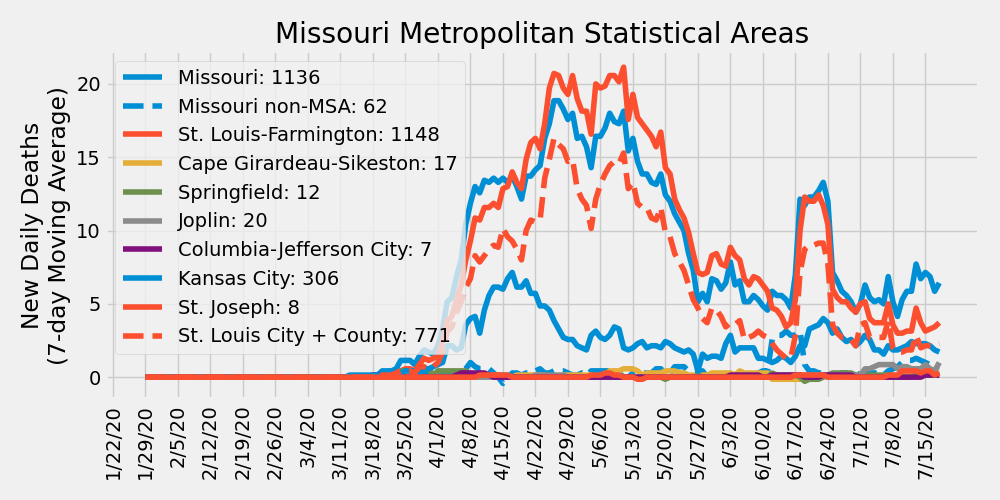
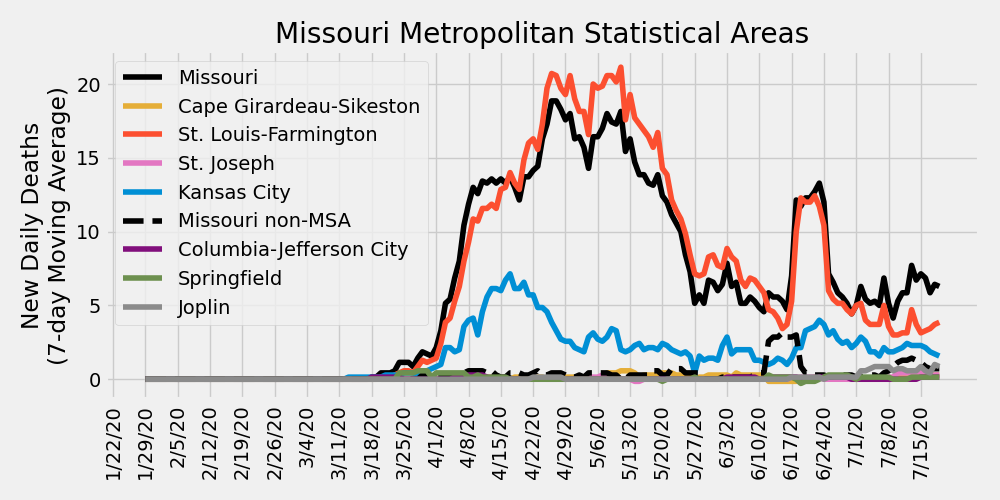
update 7/20/2020

diff --git a/ajvogt-analysis/mo_analysis_script.py b/ajvogt-analysis/mo_analysis_script.py
@@ -141,5 +141,5 @@ if __name__ == "__main__":
                        save_loc='images/mo_daily_deaths.png',
                        title='New Daily Deaths')
 
-    print('=== Updating Markdown ===')
+    print('\n=== Updating Markdown ===')
     mu.write_markdown('missouri_analysis.md', ra)

diff --git a/ajvogt-analysis/missouri_analysis.md b/ajvogt-analysis/missouri_analysis.md
@@ -1,6 +1,6 @@
 # COVID-19 Missouri Statistics & Regional Breakdowns
 Author: Adam J. Vogt  
-Updated: 07/19/2020  
+Updated: 07/20/2020  
 Source: [COVID-19 Data Repository by the Center for Systems Science and Engineering (CSSE) at Johns Hopkins University](https://github.com/CSSEGISandData/COVID-19)  
 Source Code: `/ajvogt-analysis/mo_analysis_script.py`  
 Release Notes: [release_notes.md](https://github.com/ajvogt/COVID-19/blob/master/ajvogt-analysis/release_notes.md)
@@ -17,145 +17,143 @@ are a custom combination of MSAs and
 
 ## Missouri New Daily Deaths by Metropolitan Statistcal Areas
 ![](images/mo_daily_deaths.png)
-Legend shows cumulative deaths
 
 ## Missouri New Daily Confirmed Cases by Metropolitan Statistcal Areas
 ![](images/mo_daily_cases.png)
-Legend shows cumulative confirmed cases
 
 <a name="msa-counties"></a>
 ## Metropolitan Statistical Area (MSA) Counties
 | MSA | State | County | Total Cases | Total Deaths | Daily New Cases: Last 7-Day Average | Daily New Cases: Last 14-Day Average | Daily New Cases: Last 30-Day Average |
 |-----|-------|--------|---|---|---|---|---|
-| St. Louis-Farmington | Missouri | St. Louis | 607 | 8739 | 164 | 141 | 102 |
-| Kansas City | Kansas | Johnson | 95 | 3564 | 120 | 112 | 81 |
-| Kansas City | Kansas | Wyandotte | 88 | 3433 | 80 | 67 | 56 |
-| Kansas City | Missouri | Kansas City | 37 | 3454 | 59 | 60 | 55 |
-| St. Louis-Farmington | Missouri | St. Louis City | 161 | 3256 | 53 | 49 | 33 |
-| St. Louis-Farmington | Illinois | St. Clair | 148 | 2564 | 51 | 42 | 34 |
-| St. Louis-Farmington | Missouri | St. Charles | 79 | 1581 | 45 | 34 | 21 |
-| St. Louis-Farmington | Illinois | Madison | 71 | 1413 | 40 | 30 | 22 |
-| Joplin | Missouri | Jasper | 13 | 1177 | 29 | 36 | 33 |
-| Kansas City | Missouri | Jackson | 46 | 1750 | 29 | 32 | 27 |
-| Columbia-Jefferson City | Missouri | Boone | 2 | 701 | 23 | 21 | 15 |
-| Springfield | Missouri | Greene | 9 | 575 | 21 | 19 | 12 |
-| St. Louis-Farmington | Missouri | Jefferson | 22 | 670 | 16 | 12 | 9 |
-| Missouri non-MSA | Missouri | Johnson | 1 | 322 | 14 | 12 | 7 |
-| Missouri non-MSA | Missouri | McDonald | 1 | 782 | 13 | 13 | 22 |
-| Cape Girardeau-Sikeston | Missouri | Cape Girardeau | 3 | 407 | 13 | 15 | 9 |
-| Joplin | Missouri | Newton | 2 | 638 | 12 | 13 | 18 |
-| St. Louis-Farmington | Missouri | Franklin | 18 | 337 | 10 | 8 | 5 |
-| Kansas City | Missouri | Clay | 13 | 607 | 8 | 9 | 10 |
-| Missouri non-MSA | Missouri | Barry | 0 | 147 | 8 | 5 | 4 |
-| Missouri non-MSA | Missouri | New Madrid | 1 | 96 | 6 | 3 | 2 |
-| Missouri non-MSA | Missouri | Pettis | 2 | 187 | 6 | 4 | 3 |
-| Missouri non-MSA | Missouri | Laclede | 1 | 128 | 6 | 6 | 3 |
-| Columbia-Jefferson City | Missouri | Cole | 2 | 143 | 6 | 4 | 2 |
-| Cape Girardeau-Sikeston | Missouri | Scott | 13 | 240 | 6 | 4 | 3 |
-| Kansas City | Missouri | Cass | 8 | 237 | 6 | 6 | 4 |
-| Kansas City | Missouri | Platte | 6 | 192 | 5 | 4 | 3 |
+| St. Louis-Farmington | Missouri | St. Louis | 610 | 8990 | 168 | 150 | 107 |
+| Kansas City | Kansas | Johnson | 96 | 3744 | 111 | 109 | 84 |
+| Kansas City | Kansas | Wyandotte | 89 | 3655 | 86 | 77 | 60 |
+| Kansas City | Missouri | Kansas City | 38 | 3715 | 86 | 72 | 61 |
+| St. Louis-Farmington | Missouri | St. Louis City | 161 | 3403 | 65 | 58 | 36 |
+| St. Louis-Farmington | Illinois | St. Clair | 150 | 2722 | 59 | 50 | 38 |
+| St. Louis-Farmington | Missouri | St. Charles | 79 | 1746 | 57 | 44 | 26 |
+| Kansas City | Missouri | Jackson | 47 | 1912 | 46 | 41 | 31 |
+| St. Louis-Farmington | Illinois | Madison | 71 | 1478 | 40 | 31 | 23 |
+| Joplin | Missouri | Jasper | 17 | 1239 | 33 | 34 | 34 |
+| Springfield | Missouri | Greene | 9 | 625 | 27 | 21 | 13 |
+| Columbia-Jefferson City | Missouri | Boone | 2 | 742 | 24 | 23 | 16 |
+| St. Louis-Farmington | Missouri | Jefferson | 22 | 711 | 18 | 14 | 10 |
+| Missouri non-MSA | Missouri | McDonald | 1 | 817 | 15 | 14 | 22 |
+| Missouri non-MSA | Missouri | Johnson | 1 | 354 | 15 | 13 | 8 |
+| Cape Girardeau-Sikeston | Missouri | Cape Girardeau | 3 | 429 | 14 | 15 | 10 |
+| Joplin | Missouri | Newton | 2 | 651 | 14 | 13 | 17 |
+| St. Louis-Farmington | Missouri | Franklin | 18 | 354 | 10 | 9 | 5 |
+| Kansas City | Missouri | Clay | 13 | 625 | 9 | 8 | 9 |
+| Springfield | Missouri | Polk | 0 | 85 | 9 | 5 | 2 |
+| Kansas City | Missouri | Cass | 8 | 268 | 9 | 7 | 5 |
+| Missouri non-MSA | Missouri | Barry | 0 | 156 | 8 | 6 | 4 |
+| Columbia-Jefferson City | Missouri | Cole | 2 | 159 | 8 | 5 | 3 |
+| Kansas City | Missouri | Platte | 6 | 207 | 7 | 5 | 3 |
+| Missouri non-MSA | Missouri | Laclede | 1 | 138 | 7 | 7 | 4 |
+| Missouri non-MSA | Missouri | Taney | 3 | 174 | 7 | 6 | 4 |
+| Missouri non-MSA | Missouri | New Madrid | 1 | 101 | 7 | 4 | 2 |
+| Missouri non-MSA | Missouri | Pettis | 2 | 197 | 7 | 4 | 3 |
+| Missouri non-MSA | Missouri | Pemiscot | 6 | 160 | 6 | 3 | 1 |
+| Springfield | Missouri | Christian | 1 | 118 | 6 | 5 | 2 |
 | Kansas City | Kansas | Leavenworth | 7 | 1252 | 5 | 5 | 4 |
-| Missouri non-MSA | Missouri | Pemiscot | 6 | 153 | 5 | 3 | 1 |
-| St. Louis-Farmington | Illinois | Monroe | 13 | 186 | 5 | 4 | 2 |
-| Springfield | Missouri | Christian | 1 | 104 | 4 | 4 | 2 |
-| Missouri non-MSA | Missouri | Taney | 3 | 155 | 4 | 5 | 4 |
-| Missouri non-MSA | Missouri | Lawrence | 2 | 86 | 4 | 3 | 2 |
-| St. Joseph | Missouri | Buchanan | 6 | 962 | 3 | 5 | 5 |
-| St. Louis-Farmington | Missouri | Lincoln | 1 | 133 | 3 | 2 | 1 |
-| Missouri non-MSA | Missouri | Saline | 5 | 328 | 3 | 3 | 1 |
-| St. Louis-Farmington | Missouri | St. Francois | 2 | 184 | 3 | 2 | 4 |
-| St. Louis-Farmington | Illinois | Clinton | 16 | 264 | 2 | 1 | 1 |
-| Missouri non-MSA | Missouri | Carroll | 0 | 43 | 2 | 2 | 1 |
-| St. Louis-Farmington | Missouri | Warren | 0 | 72 | 2 | 1 | 1 |
-| Missouri non-MSA | Missouri | Dunklin | 3 | 146 | 2 | 2 | 2 |
-| St. Louis-Farmington | Illinois | Macoupin | 3 | 83 | 2 | 2 | 1 |
+| Cape Girardeau-Sikeston | Missouri | Scott | 13 | 244 | 5 | 4 | 2 |
+| St. Joseph | Missouri | Buchanan | 6 | 974 | 5 | 6 | 5 |
+| Missouri non-MSA | Missouri | Saline | 5 | 346 | 5 | 4 | 2 |
+| Missouri non-MSA | Missouri | Lawrence | 2 | 94 | 5 | 3 | 2 |
+| St. Louis-Farmington | Missouri | Lincoln | 1 | 153 | 4 | 3 | 2 |
+| St. Louis-Farmington | Illinois | Monroe | 13 | 192 | 4 | 4 | 2 |
+| St. Louis-Farmington | Missouri | Warren | 0 | 85 | 4 | 2 | 1 |
+| Missouri non-MSA | Missouri | Butler | 0 | 145 | 4 | 2 | 2 |
+| Springfield | Missouri | Webster | 1 | 76 | 3 | 2 | 1 |
+| St. Louis-Farmington | Missouri | St. Francois | 2 | 189 | 3 | 2 | 4 |
+| St. Louis-Farmington | Illinois | Clinton | 16 | 268 | 3 | 1 | 1 |
+| Missouri non-MSA | Missouri | Dunklin | 3 | 147 | 2 | 2 | 2 |
+| Cape Girardeau-Sikeston | Missouri | Bollinger | 1 | 40 | 2 | 1 | 0 |
+| Missouri non-MSA | Missouri | Miller | 0 | 42 | 2 | 1 | 1 |
+| Columbia-Jefferson City | Missouri | Callaway | 1 | 80 | 2 | 1 | 1 |
+| Missouri non-MSA | Missouri | Marion | 0 | 48 | 2 | 1 | 1 |
+| Missouri non-MSA | Missouri | Carroll | 0 | 48 | 2 | 2 | 1 |
+| Missouri non-MSA | Missouri | Camden | 2 | 102 | 2 | 2 | 1 |
 | Kansas City | Kansas | Miami | 0 | 69 | 2 | 2 | 1 |
-| Springfield | Missouri | Webster | 1 | 67 | 2 | 2 | 1 |
-| Missouri non-MSA | Missouri | Butler | 0 | 133 | 2 | 1 | 2 |
-| Missouri non-MSA | Missouri | Macon | 0 | 35 | 2 | 1 | 0 |
-| Columbia-Jefferson City | Missouri | Callaway | 1 | 78 | 2 | 1 | 1 |
-| Missouri non-MSA | Missouri | Stone | 0 | 36 | 2 | 1 | 0 |
-| Missouri non-MSA | Missouri | Camden | 2 | 91 | 1 | 1 | 1 |
-| Missouri non-MSA | Missouri | Washington | 1 | 39 | 1 | 1 | 0 |
-| Missouri non-MSA | Missouri | Henry | 3 | 35 | 1 | 1 | 0 |
-| Missouri non-MSA | Missouri | Wright | 0 | 49 | 1 | 2 | 1 |
-| Cape Girardeau-Sikeston | Missouri | Bollinger | 1 | 33 | 1 | 1 | 0 |
-| Missouri non-MSA | Missouri | Stoddard | 9 | 165 | 1 | 1 | 1 |
-| Missouri non-MSA | Missouri | Miller | 0 | 35 | 1 | 1 | 0 |
-| Missouri non-MSA | Missouri | Marion | 0 | 41 | 1 | 1 | 1 |
-| St. Louis-Farmington | Illinois | Jersey | 1 | 51 | 1 | 1 | 0 |
-| Missouri non-MSA | Missouri | Barton | 0 | 42 | 1 | 1 | 1 |
-| Missouri non-MSA | Missouri | Douglas | 0 | 22 | 1 | 1 | 0 |
-| Missouri non-MSA | Missouri | Perry | 3 | 178 | 1 | 2 | 3 |
-| Missouri non-MSA | Missouri | Audrain | 1 | 152 | 1 | 0 | 1 |
-| Missouri non-MSA | Missouri | Howell | 0 | 58 | 1 | 0 | 1 |
-| Missouri non-MSA | Missouri | Pulaski | 1 | 146 | 1 | 1 | 1 |
-| Missouri non-MSA | Missouri | Vernon | 0 | 38 | 1 | 0 | 0 |
-| Missouri non-MSA | Missouri | Cedar | 0 | 20 | 1 | 0 | 0 |
-| Kansas City | Missouri | Lafayette | 2 | 108 | 1 | 1 | 0 |
-| Springfield | Missouri | Polk | 0 | 26 | 1 | 0 | 0 |
-| Missouri non-MSA | Missouri | Pike | 1 | 46 | 1 | 0 | 0 |
-| Cape Girardeau-Sikeston | Illinois | Alexander | 0 | 29 | 1 | 0 | 0 |
-| Missouri non-MSA | Missouri | Benton | 0 | 29 | 1 | 0 | 0 |
-| Columbia-Jefferson City | Missouri | Howard | 0 | 11 | 0 | 0 | 0 |
-| Springfield | Missouri | Dallas | 1 | 23 | 0 | 0 | 0 |
-| Missouri non-MSA | Missouri | Adair | 0 | 106 | 0 | 1 | 0 |
-| Missouri non-MSA | Missouri | Harrison | 1 | 34 | 0 | 1 | 0 |
-| Missouri non-MSA | Missouri | Reynolds | 0 | 11 | 0 | 0 | 0 |
-| Kansas City | Missouri | Ray | 0 | 36 | 0 | 0 | 0 |
-| Missouri non-MSA | Missouri | Crawford | 0 | 27 | 0 | 0 | 0 |
-| Columbia-Jefferson City | Missouri | Moniteau | 2 | 71 | 0 | 1 | 0 |
-| Missouri non-MSA | Missouri | Shannon | 0 | 29 | 0 | 1 | 0 |
-| St. Joseph | Kansas | Doniphan | 0 | 31 | 0 | 0 | 0 |
+| St. Louis-Farmington | Illinois | Macoupin | 3 | 86 | 2 | 2 | 1 |
+| Missouri non-MSA | Missouri | Stoddard | 9 | 169 | 2 | 1 | 1 |
+| Missouri non-MSA | Missouri | Stone | 0 | 38 | 2 | 1 | 0 |
+| Missouri non-MSA | Missouri | Henry | 3 | 41 | 2 | 1 | 0 |
+| Missouri non-MSA | Missouri | Audrain | 1 | 157 | 2 | 1 | 0 |
+| Kansas City | Missouri | Lafayette | 2 | 117 | 2 | 1 | 1 |
+| Missouri non-MSA | Missouri | Howell | 0 | 63 | 2 | 1 | 1 |
+| Missouri non-MSA | Missouri | Washington | 1 | 40 | 2 | 1 | 0 |
+| Missouri non-MSA | Missouri | Barton | 0 | 48 | 2 | 1 | 1 |
+| Missouri non-MSA | Missouri | Douglas | 1 | 26 | 2 | 1 | 0 |
+| Missouri non-MSA | Missouri | Wright | 0 | 51 | 1 | 1 | 1 |
+| Missouri non-MSA | Missouri | Cedar | 0 | 25 | 1 | 1 | 0 |
+| Missouri non-MSA | Missouri | Pulaski | 1 | 155 | 1 | 1 | 1 |
+| Missouri non-MSA | Missouri | Macon | 0 | 36 | 1 | 2 | 0 |
+| St. Joseph | Missouri | Andrew | 1 | 65 | 1 | 0 | 0 |
+| Columbia-Jefferson City | Missouri | Howard | 0 | 15 | 1 | 0 | 0 |
+| Springfield | Missouri | Dallas | 1 | 28 | 1 | 1 | 0 |
+| Missouri non-MSA | Missouri | Benton | 0 | 32 | 1 | 1 | 0 |
+| Missouri non-MSA | Missouri | Perry | 3 | 179 | 1 | 2 | 3 |
+| Missouri non-MSA | Missouri | Vernon | 0 | 41 | 1 | 1 | 0 |
+| St. Louis-Farmington | Illinois | Jersey | 1 | 52 | 1 | 1 | 0 |
+| Missouri non-MSA | Missouri | Adair | 0 | 107 | 1 | 1 | 0 |
+| Missouri non-MSA | Missouri | Ripley | 0 | 27 | 1 | 0 | 0 |
+| Missouri non-MSA | Missouri | Chariton | 0 | 13 | 1 | 0 | 0 |
+| Missouri non-MSA | Missouri | Pike | 1 | 47 | 1 | 0 | 0 |
+| Cape Girardeau-Sikeston | Illinois | Alexander | 0 | 32 | 1 | 0 | 0 |
+| Missouri non-MSA | Missouri | Harrison | 1 | 35 | 1 | 1 | 0 |
+| Kansas City | Missouri | Ray | 0 | 37 | 0 | 0 | 0 |
+| Missouri non-MSA | Missouri | Crawford | 0 | 28 | 0 | 0 | 0 |
 | Missouri non-MSA | Missouri | Texas | 0 | 16 | 0 | 0 | 0 |
-| Missouri non-MSA | Missouri | Chariton | 0 | 11 | 0 | 0 | 0 |
-| Kansas City | Missouri | Clinton | 0 | 38 | 0 | 0 | 0 |
-| St. Louis-Farmington | Illinois | Bond | 2 | 24 | 0 | 0 | 0 |
-| Missouri non-MSA | Missouri | Sullivan | 0 | 122 | 0 | 0 | 1 |
-| Missouri non-MSA | Missouri | Gasconade | 0 | 18 | 0 | 0 | 0 |
-| St. Joseph | Missouri | Andrew | 1 | 59 | 0 | 0 | 0 |
+| Missouri non-MSA | Missouri | Livingston | 0 | 30 | 0 | 1 | 0 |
+| St. Joseph | Kansas | Doniphan | 0 | 31 | 0 | 0 | 0 |
+| Columbia-Jefferson City | Missouri | Cooper | 0 | 33 | 0 | 0 | 0 |
+| Missouri non-MSA | Missouri | Dent | 0 | 10 | 0 | 0 | 0 |
+| Missouri non-MSA | Missouri | St. Clair | 0 | 10 | 0 | 0 | 0 |
+| Missouri non-MSA | Missouri | Ste. Genevieve | 1 | 29 | 0 | 0 | 0 |
+| Missouri non-MSA | Missouri | Sullivan | 0 | 122 | 0 | 0 | 0 |
+| Kansas City | Missouri | Bates | 1 | 18 | 0 | 0 | 0 |
+| Missouri non-MSA | Missouri | Gentry | 9 | 70 | 0 | 0 | 0 |
 | Missouri non-MSA | Missouri | Randolph | 1 | 21 | 0 | 0 | 0 |
-| Missouri non-MSA | Missouri | Livingston | 0 | 28 | 0 | 0 | 0 |
+| Columbia-Jefferson City | Missouri | Osage | 0 | 17 | 0 | 0 | 0 |
+| Missouri non-MSA | Missouri | Shannon | 0 | 31 | 0 | 0 | 0 |
+| Missouri non-MSA | Missouri | Lewis | 1 | 12 | 0 | 0 | 0 |
+| St. Joseph | Missouri | DeKalb | 1 | 20 | 0 | 0 | 0 |
+| Missouri non-MSA | Missouri | Phelps | 0 | 57 | 0 | 0 | 1 |
+| St. Louis-Farmington | Illinois | Bond | 2 | 26 | 0 | 0 | 0 |
 | Kansas City | Kansas | Linn | 0 | 20 | 0 | 0 | 0 |
-| Columbia-Jefferson City | Missouri | Cooper | 0 | 32 | 0 | 0 | 0 |
-| Kansas City | Missouri | Bates | 1 | 17 | 0 | 0 | 0 |
-| Missouri non-MSA | Missouri | Nodaway | 0 | 30 | 0 | 0 | 0 |
-| St. Joseph | Missouri | DeKalb | 0 | 20 | 0 | 0 | 0 |
-| Missouri non-MSA | Missouri | Dent | 0 | 9 | 0 | 0 | 0 |
-| Columbia-Jefferson City | Missouri | Osage | 0 | 15 | 0 | 0 | 0 |
-| Missouri non-MSA | Missouri | Ste. Genevieve | 1 | 26 | 0 | 0 | 0 |
-| Missouri non-MSA | Missouri | Ripley | 0 | 23 | 0 | 0 | 0 |
+| Kansas City | Missouri | Caldwell | 1 | 19 | 0 | 0 | 0 |
+| Missouri non-MSA | Missouri | Shelby | 0 | 7 | 0 | 0 | 0 |
+| Missouri non-MSA | Missouri | Morgan | 0 | 31 | 0 | 0 | 0 |
+| Missouri non-MSA | Missouri | Gasconade | 0 | 18 | 0 | 0 | 0 |
+| Missouri non-MSA | Missouri | Nodaway | 0 | 29 | 0 | 0 | 0 |
+| Kansas City | Missouri | Clinton | 0 | 36 | 0 | 0 | 0 |
+| Columbia-Jefferson City | Missouri | Moniteau | 2 | 71 | 0 | 1 | 0 |
 | Missouri non-MSA | Missouri | Daviess | 0 | 13 | 0 | 0 | 0 |
-| Missouri non-MSA | Missouri | Lewis | 1 | 10 | 0 | 0 | 0 |
-| Missouri non-MSA | Missouri | St. Clair | 0 | 6 | 0 | 0 | 0 |
-| Missouri non-MSA | Missouri | Gentry | 9 | 69 | 0 | 0 | 0 |
-| Kansas City | Missouri | Caldwell | 1 | 17 | 0 | 0 | 0 |
-| Missouri non-MSA | Missouri | Shelby | 0 | 6 | 0 | 0 | 0 |
+| Missouri non-MSA | Missouri | Montgomery | 0 | 24 | 0 | 0 | 0 |
+| Missouri non-MSA | Missouri | Monroe | 0 | 7 | 0 | 0 | 0 |
+| Missouri non-MSA | Missouri | Linn | 1 | 22 | 0 | 0 | 0 |
+| Missouri non-MSA | Missouri | Dade | 0 | 4 | 0 | 0 | 0 |
+| Missouri non-MSA | Missouri | Madison | 0 | 9 | 0 | 0 | 0 |
+| Missouri non-MSA | Missouri | Schuyler | 0 | 6 | 0 | 0 | 0 |
 | St. Louis-Farmington | Illinois | Calhoun | 0 | 2 | 0 | 0 | 0 |
 | Missouri non-MSA | Missouri | Hickory | 0 | 2 | 0 | 0 | 0 |
-| Missouri non-MSA | Missouri | Linn | 1 | 21 | 0 | 0 | 0 |
-| Missouri non-MSA | Missouri | Grundy | 1 | 22 | 0 | 0 | 0 |
-| Missouri non-MSA | Missouri | Madison | 0 | 8 | 0 | 0 | 0 |
-| Missouri non-MSA | Missouri | Morgan | 0 | 28 | 0 | 0 | 0 |
+| Missouri non-MSA | Missouri | Ralls | 0 | 11 | 0 | 0 | 0 |
+| Missouri non-MSA | Missouri | Putnam | 0 | 4 | 0 | 0 | 0 |
 | Missouri non-MSA | Missouri | Carter | 1 | 8 | 0 | 0 | 0 |
-| Missouri non-MSA | Missouri | Mercer | 0 | 7 | 0 | 0 | 0 |
-| Missouri non-MSA | Missouri | Mississippi | 0 | 99 | 0 | 0 | 0 |
-| Missouri non-MSA | Missouri | Monroe | 0 | 6 | 0 | 0 | 0 |
 | Missouri non-MSA | Missouri | Oregon | 0 | 10 | 0 | 0 | 0 |
-| Missouri non-MSA | Missouri | Dade | 0 | 3 | 0 | 0 | 0 |
+| Missouri non-MSA | Missouri | Mississippi | 0 | 100 | 0 | 0 | 0 |
+| Missouri non-MSA | Missouri | Mercer | 0 | 8 | 0 | 0 | 0 |
+| Missouri non-MSA | Missouri | Grundy | 1 | 22 | 0 | 0 | 0 |
+| Missouri non-MSA | Missouri | Iron | 0 | 4 | 0 | 0 | 0 |
+| Missouri non-MSA | Missouri | Ozark | 0 | 3 | 0 | 0 | 0 |
 | Unassigned/Out of MO | Missouri | Out of MO | 0 | 0 | 0 | 0 | 0 |
 | Missouri non-MSA | Missouri | Worth | 0 | 4 | 0 | 0 | 0 |
 | Missouri non-MSA | Missouri | Wayne | 0 | 5 | 0 | 0 | 0 |
 | Missouri non-MSA | Missouri | Knox | 0 | 2 | 0 | 0 | 0 |
 | Missouri non-MSA | Missouri | Scotland | 1 | 11 | 0 | 0 | 0 |
-| Missouri non-MSA | Missouri | Schuyler | 0 | 5 | 0 | 0 | 0 |
-| Missouri non-MSA | Missouri | Ralls | 0 | 10 | 0 | 0 | 0 |
-| Missouri non-MSA | Missouri | Putnam | 0 | 3 | 0 | 0 | 0 |
-| Missouri non-MSA | Missouri | Phelps | 0 | 53 | 0 | 0 | 1 |
-| Missouri non-MSA | Missouri | Ozark | 0 | 2 | 0 | 0 | 0 |
-| Missouri non-MSA | Missouri | Montgomery | 0 | 23 | 0 | 0 | 0 |
-| Missouri non-MSA | Missouri | Maries | 0 | 6 | 0 | 0 | 0 |
-| Missouri non-MSA | Missouri | Iron | 0 | 3 | 0 | 0 | 0 |
+| Missouri non-MSA | Missouri | Reynolds | 0 | 10 | 0 | 0 | 0 |
+| Missouri non-MSA | Missouri | Maries | 0 | 7 | 0 | 0 | 0 |
 | Missouri non-MSA | Missouri | Holt | 0 | 1 | 0 | 0 | 0 |
 | Missouri non-MSA | Missouri | Clark | 0 | 2 | 0 | 0 | 0 |
 | Missouri non-MSA | Missouri | Atchison | 0 | 6 | 0 | 0 | 0 |
